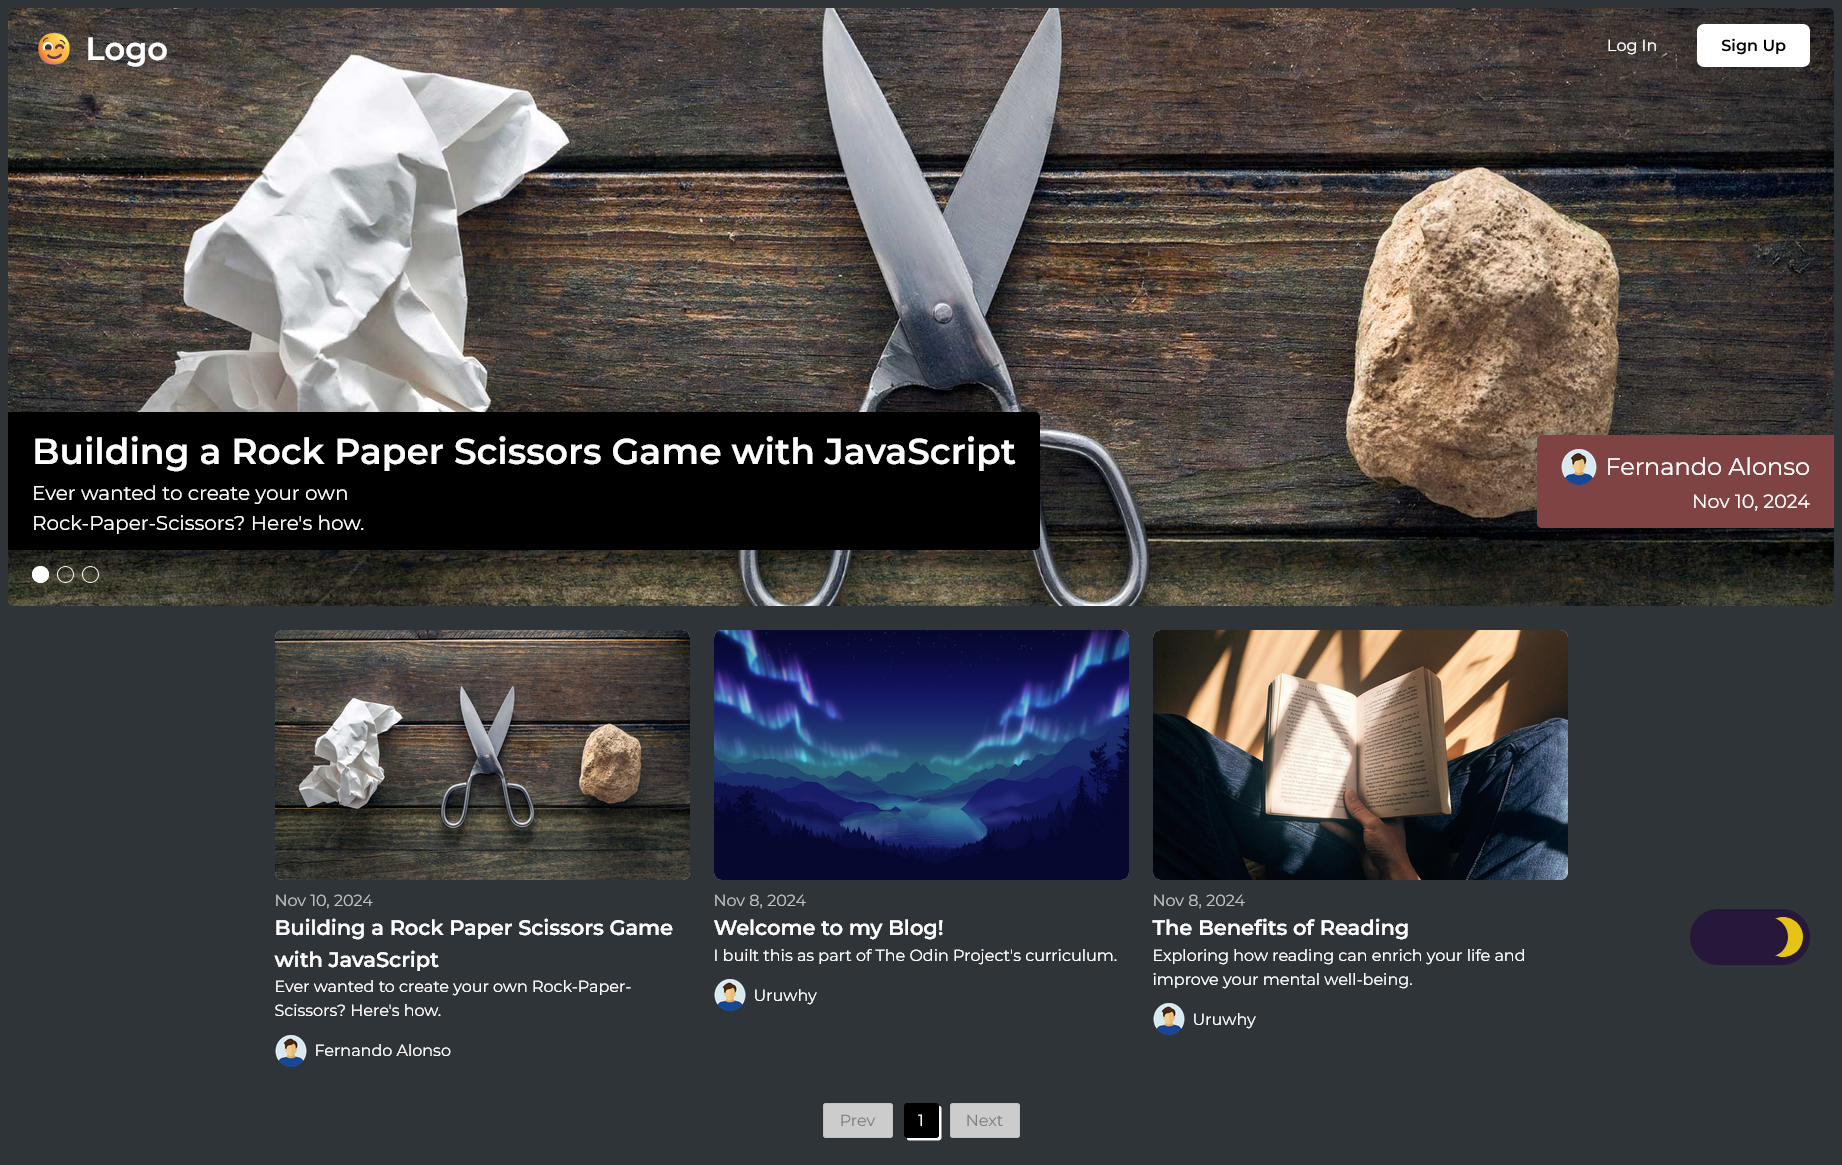
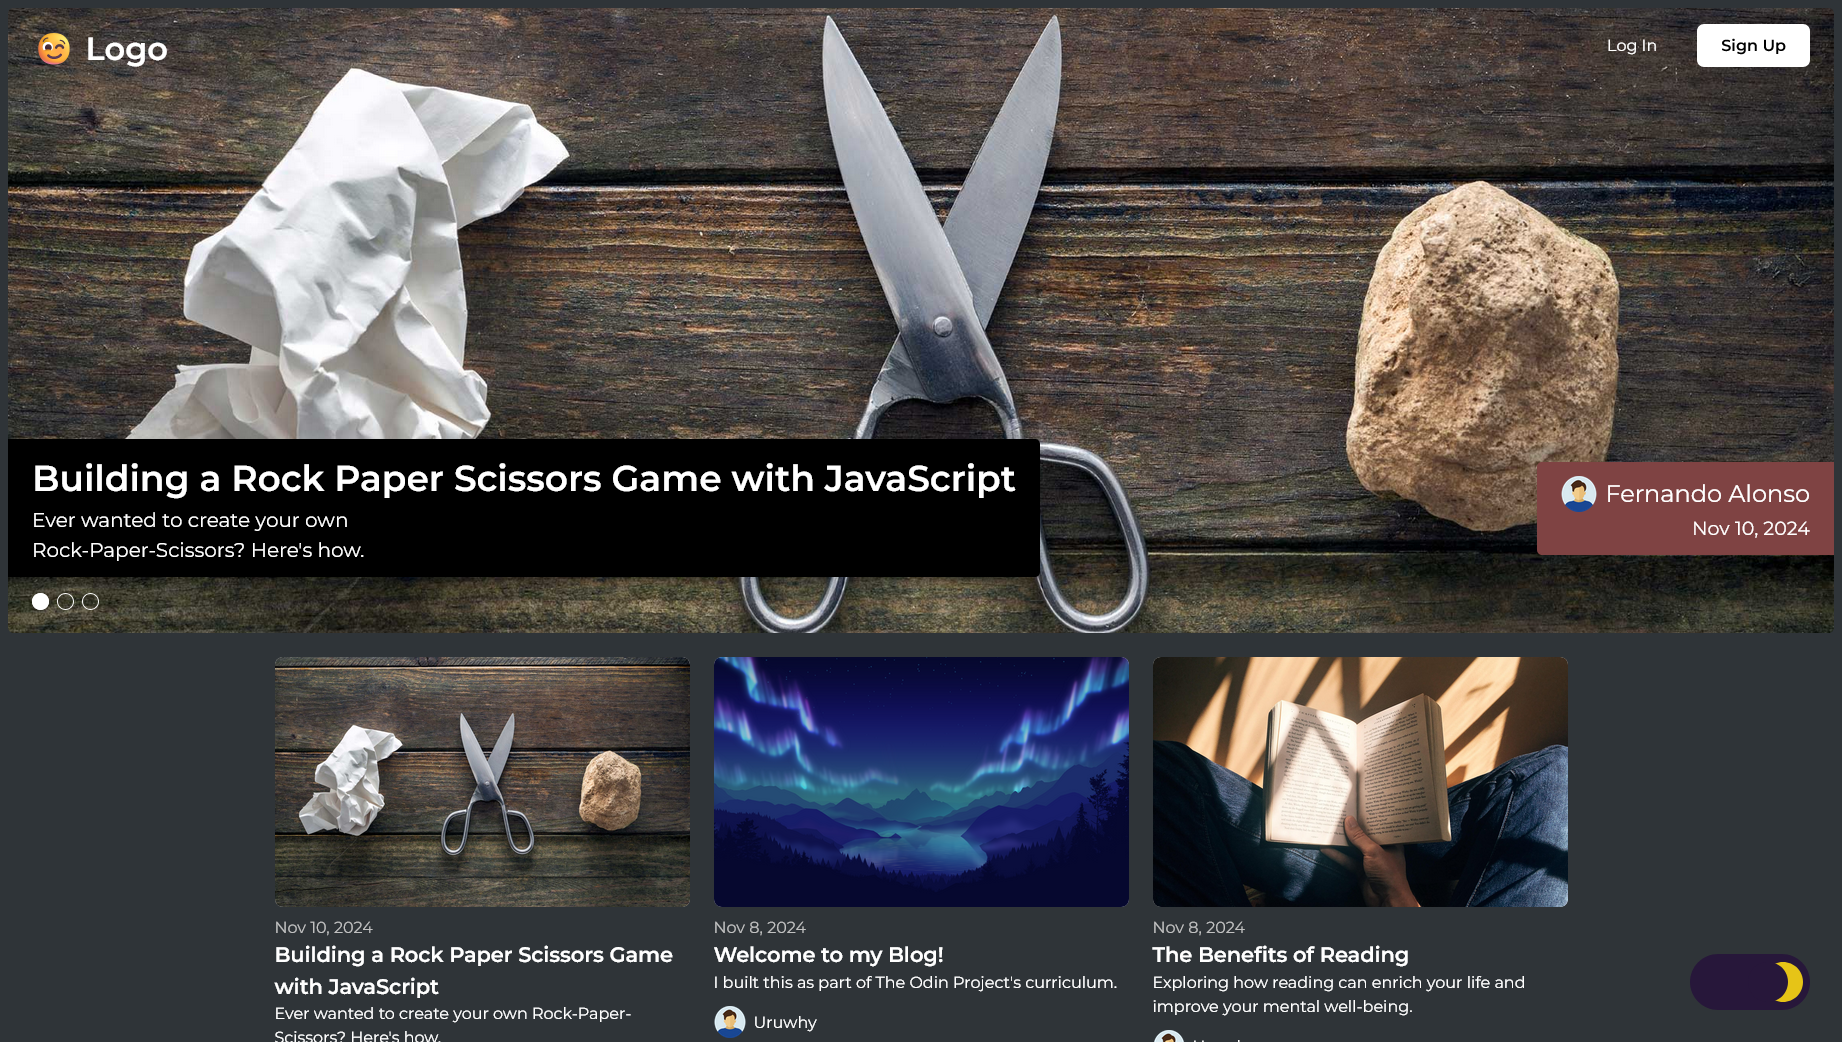
add event listeners for arrow keys in carousel

diff --git a/src/components/projects/Carousel.tsx b/src/components/projects/Carousel.tsx
@@ -3,7 +3,7 @@ import styles from "./Carousel.module.css";
 import { iconMap } from "../../utilities/icons";
 
 export default function Carousel() {
-  const [current, setCurrent] = useState(2);
+  const [current, setCurrent] = useState(1);
   const [slideWidth, setSlideWidth] = useState(75);
 
   const [isDarkMode, setIsDarkMode] = useState(false);
@@ -30,6 +30,21 @@ export default function Carousel() {
   }, []);
 
   useEffect(() => {
+    const handleKeyPress = (e: KeyboardEvent) => {
+      setCurrent((prev) => {
+        switch (e.key) {
+          case "ArrowLeft":
+            return prev > 0 ? prev - 1 : prev;
+          case "ArrowRight":
+            return prev < items.length - 1 ? prev + 1 : prev;
+          default:
+            return prev;
+        }
+      });
+    };
+
+    document.addEventListener("keydown", handleKeyPress);
+
     const handleResize = () => {
       setSlideWidth(window.innerWidth < 768 ? 85 : 75);
     };
@@ -39,6 +54,7 @@ export default function Carousel() {
 
     return () => {
       window.removeEventListener("resize", handleResize);
+      document.removeEventListener("keydown", handleKeyPress);
     };
   }, []);
 

diff --git a/src/components/projects/Carousel.module.css b/src/components/projects/Carousel.module.css
@@ -57,7 +57,7 @@
 .imageWrapper {
   background-color: var(--gray-text);
   background-size: cover;
-  background-position: center;
+  background-position: start;
   background-repeat: no-repeat;
 
   position: absolute;
@@ -72,7 +72,7 @@
 
 .content {
   opacity: 0;
-  transition: opacity 0.25s ease;
+  transition: opacity 0.5s ease;
 
   width: 100%;
   height: 100%;

diff --git a/src/styles/global.css b/src/styles/global.css
@@ -24,6 +24,8 @@ body {
   display: flex;
   flex-direction: column;
   gap: 1rem;
+
+  overflow-x: hidden;
 }
 
 .zone {
